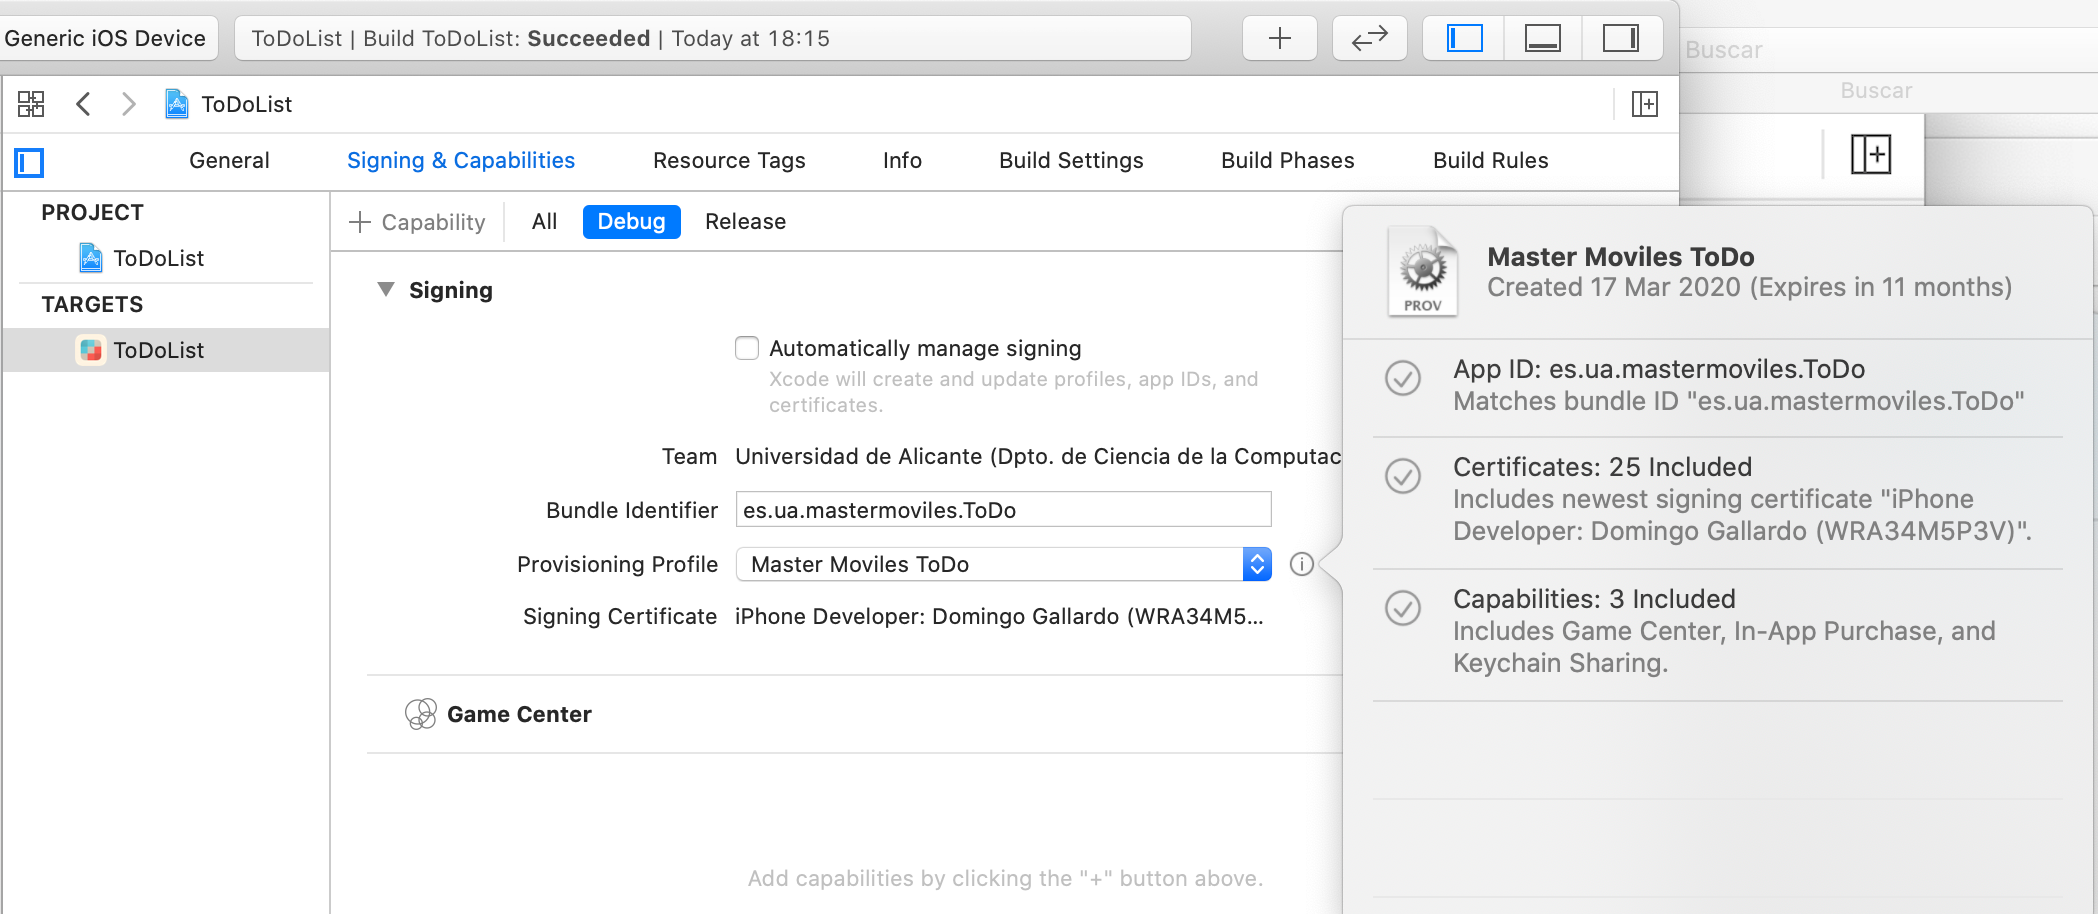
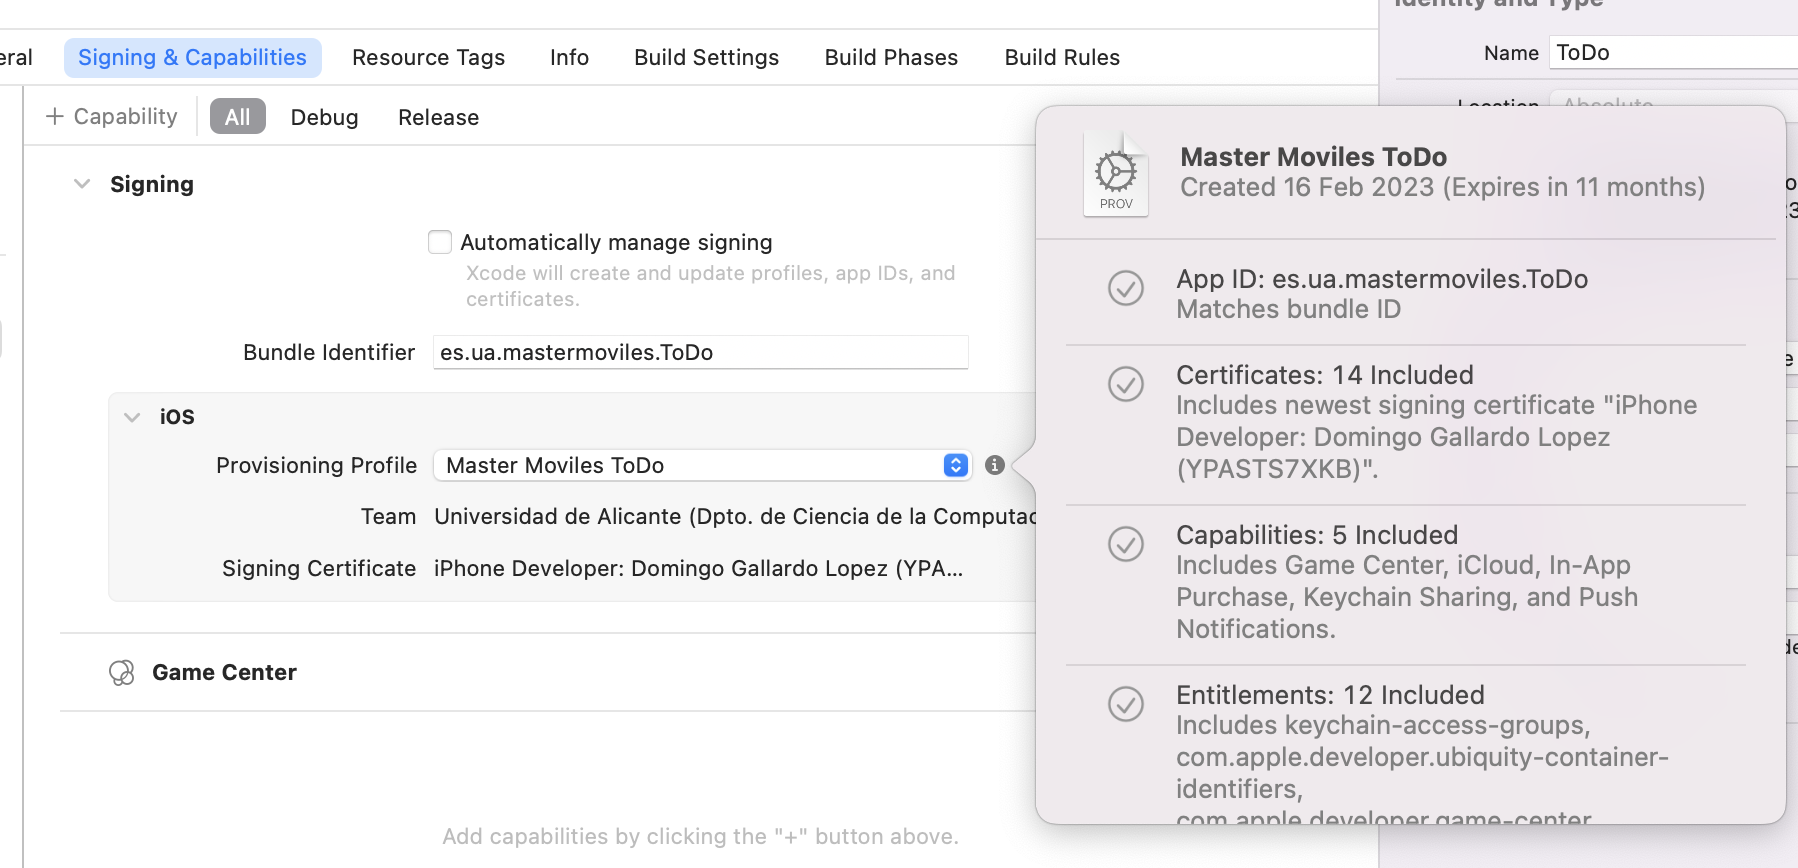
Actualizadas imágenes

diff --git a/docs/teoria/firma-aprovisionamiento/firma-aprovisionamiento.md b/docs/teoria/firma-aprovisionamiento/firma-aprovisionamiento.md
@@ -1001,12 +1001,11 @@ estar incluido en un perfil de aprovisionamiento compatible con la app
 que estamos desarrollando.
 
 Vamos a incorporar los nuevos certificados al perfil de
-aprovisionamiento genérico, con App ID comodín (`*`) con el que se
-puede compilar cualquier app.
+aprovisionamiento genérico, con App ID comodín (`es.ua.*`) con el que se
+puede distribuir cualquier app que tenga un _bundle id_ que comience
+por `es.ua`.
 
 <img src="imagenes/actualizar-perfil-aprovisionamiento-cert.png" width="700px" />
-
-<img src="imagenes/actualizar-perfil-aprovisionamiento-cert2.png" width="700px" />
 
 ### Firma de la app con el nuevo certificado ###
 
@@ -1031,7 +1030,9 @@ denominado _Genérico_.
 <img src="imagenes/xcode-select-provisioning-profile-manual.png" width="600px"/>
 
 Vemos que se firma la aplicación correctamente y que se añade el
-perfil de aprovisionamiento que hemos seleccionado.
+perfil de aprovisionamiento que hemos seleccionado. Asegúrate que
+marcas la opción `All` para firmar con el perfil tanto la opción de
+`Debug` como la de `Release`.
 
 <img src="imagenes/perfil-generico-team.png" width="700px"/>
 
